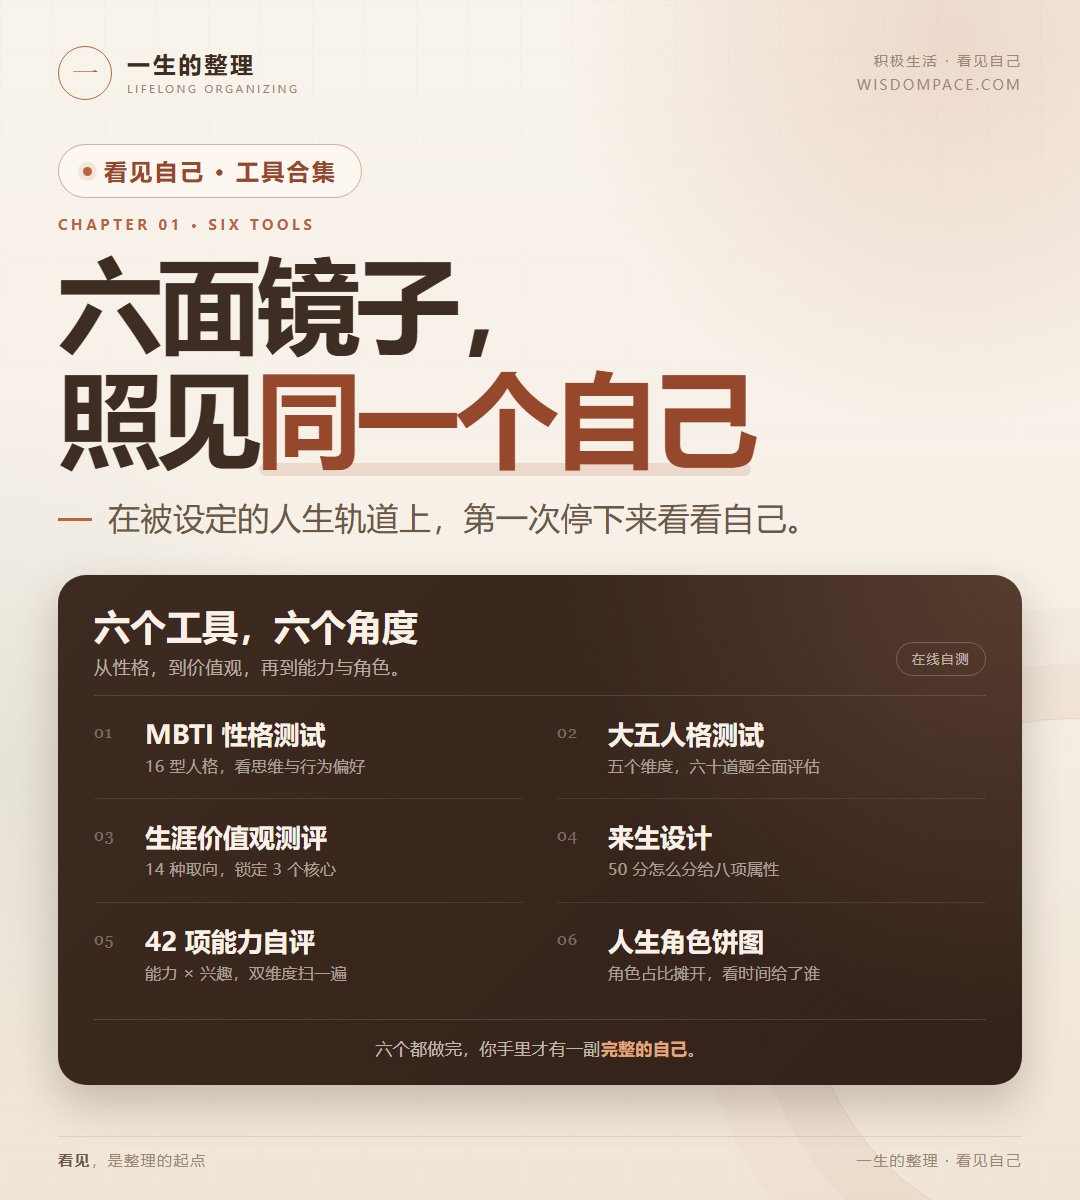
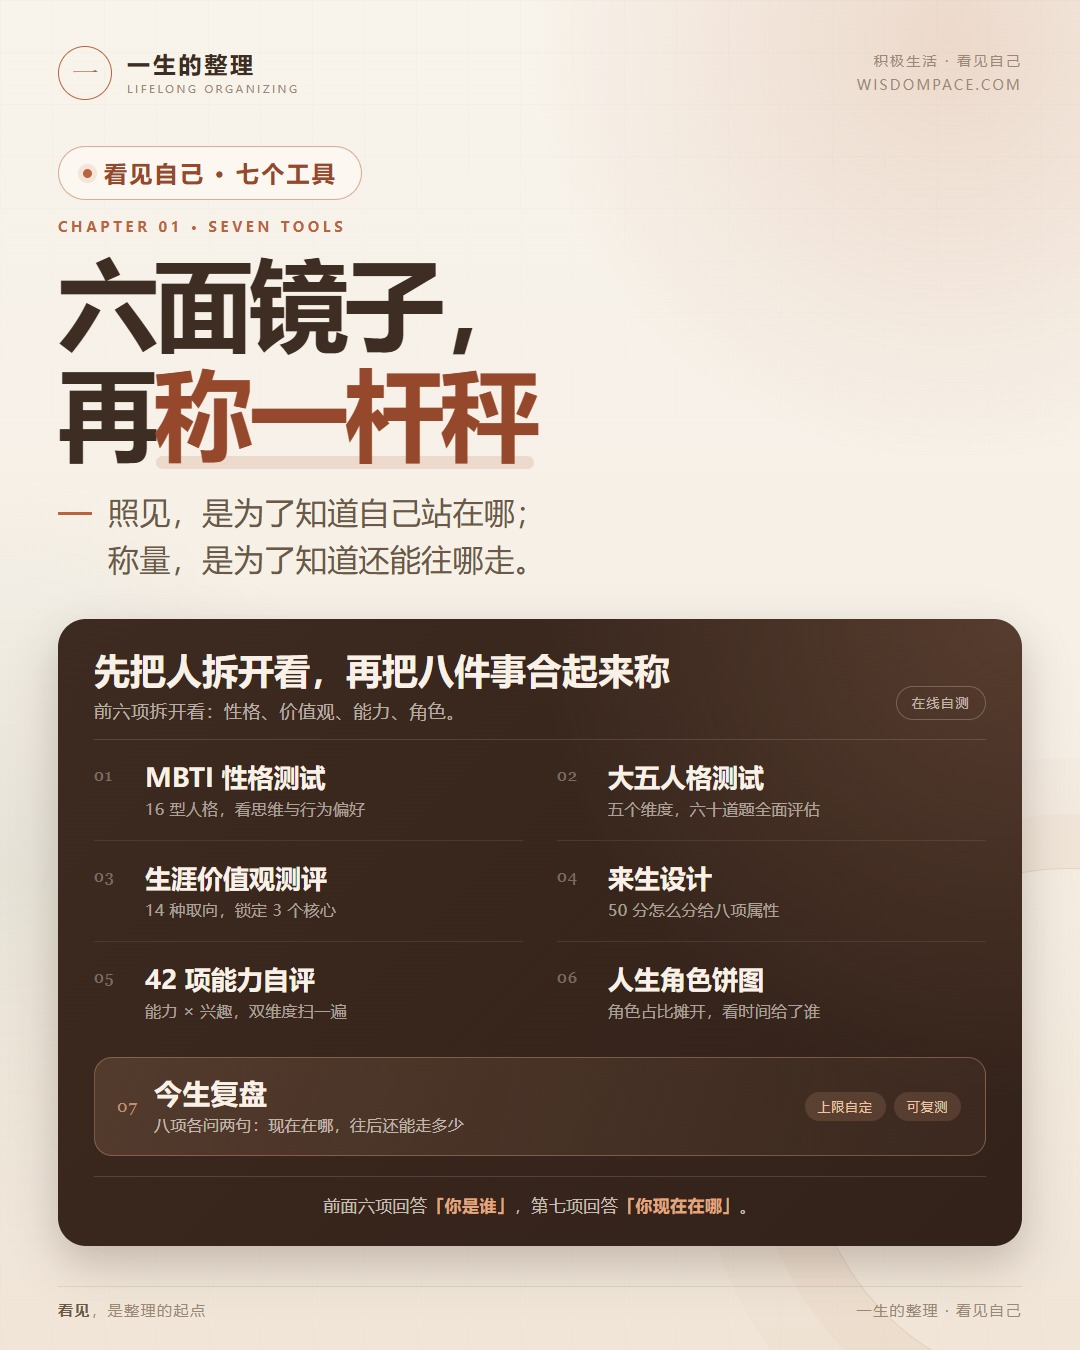
feat(posters): 第一章总封面重做，六拆一合两层结构
- 工具从 6 个增至 7 个（新增「今生复盘」），原「六面镜子」并列结构已失真
- 主标题改「六面镜子，再称一杆秤」：前六项拆开看，第七项合起来称
- 尺寸 1080x1200 → 1080x1350，给第七项留独立强调条的空间
- 第七项单列成条（跨两列 + 描边框 + 上限自定/可复测 两个 chip），与前六项区分
- 卡片头改「先把人拆开看，再把八件事合起来称」，脚注点明两层各自回答的问题

diff --git a/posters/chapter1-cover.html b/posters/chapter1-cover.html
@@ -3,7 +3,7 @@
 <head>
   <meta charset="UTF-8" />
   <meta name="viewport" content="width=1080, initial-scale=1.0" />
-  <title>看见自己 · 工具合集封面</title>
+  <title>看见自己 · 七工具封面</title>
   <style>
     * { box-sizing: border-box; margin: 0; padding: 0; }
     :root {
@@ -17,7 +17,7 @@
     }
     html, body {
       width: 1080px;
-      height: 1200px;
+      height: 1350px;
       overflow: hidden;
       background: var(--paper);
     }
@@ -29,7 +29,7 @@
     .poster {
       position: relative;
       width: 1080px;
-      height: 1200px;
+      height: 1350px;
       padding: 46px 58px 30px;
       overflow: hidden;
       background:
@@ -108,7 +108,7 @@
     .hero {
       position: relative;
       z-index: 2;
-      padding-top: 44px;
+      padding-top: 46px;
     }
     .tool-chip {
       display: inline-flex;
@@ -139,7 +139,7 @@
     }
     h1 {
       margin-top: 12px;
-      font-size: 104px;
+      font-size: 100px;
       font-weight: 800;
       line-height: 1.1;
       letter-spacing: -0.045em;
@@ -163,11 +163,11 @@
       display: flex;
       align-items: flex-start;
       gap: 16px;
-      margin-top: 20px;
+      margin-top: 22px;
       color: var(--ink-soft);
-      font-size: 32px;
+      font-size: 31px;
       font-weight: 500;
-      line-height: 1.45;
+      line-height: 1.5;
       letter-spacing: 0.01em;
     }
     .slogan::before {
@@ -175,16 +175,17 @@
       flex: 0 0 auto;
       width: 34px;
       height: 3px;
-      margin-top: 23px;
+      margin-top: 22px;
       background: var(--accent);
     }
+    .slogan em { font-style: normal; color: var(--accent-deep); font-weight: 700; }
 
-    /* ── 六工具深色卡 ── */
+    /* ── 工具深色卡 ── */
     .stage-card {
       position: relative;
       z-index: 2;
-      margin-top: 34px;
-      padding: 28px 36px 24px;
+      margin-top: 36px;
+      padding: 28px 36px 28px;
       border-radius: 28px;
       color: #f9f1e7;
       background:
@@ -226,10 +227,11 @@
       display: grid;
       grid-template-columns: 40px 1fr;
       gap: 11px;
-      padding: 22px 0 20px;
+      padding: 21px 0 19px;
       border-bottom: 1px solid rgba(249, 241, 231, 0.09);
     }
-    .stage:nth-last-child(-n+2) { border-bottom: 0; }
+    .stage:nth-child(5),
+    .stage:nth-child(6) { border-bottom: 0; }
     .stage-index {
       padding-top: 5px;
       color: rgba(249, 241, 231, 0.34);
@@ -248,8 +250,49 @@
       line-height: 1.45;
       letter-spacing: 0.02em;
     }
-    .stage-foot {
+
+    /* ── 第七项：合起来称 ── */
+    .stage-wide {
+      grid-column: 1 / -1;
+      display: flex;
+      align-items: center;
+      gap: 16px;
       margin-top: 14px;
+      padding: 18px 24px 18px 22px;
+      border: 1px solid rgba(224, 168, 130, 0.36);
+      border-radius: 18px;
+      background: linear-gradient(100deg, rgba(224, 168, 130, 0.15), rgba(224, 168, 130, 0.045));
+    }
+    .stage-wide .stage-index {
+      flex: 0 0 auto;
+      padding-top: 0;
+      color: rgba(224, 168, 130, 0.78);
+      font-size: 17px;
+    }
+    .stage-wide-body { flex: 1 1 auto; min-width: 0; }
+    .stage-wide .stage-title { font-size: 28px; letter-spacing: 0.01em; }
+    .stage-wide .stage-desc {
+      margin-top: 3px;
+      color: rgba(249, 241, 231, 0.68);
+      font-size: 16px;
+    }
+    .wide-chips {
+      flex: 0 0 auto;
+      display: flex;
+      gap: 8px;
+    }
+    .wide-chips span {
+      padding: 7px 13px 6px;
+      border-radius: 999px;
+      background: rgba(224, 168, 130, 0.16);
+      color: #efc4a6;
+      font-size: 13px;
+      letter-spacing: 0.06em;
+      white-space: nowrap;
+    }
+
+    .stage-foot {
+      margin-top: 20px;
       padding-top: 16px;
       border-top: 1px solid rgba(249, 241, 231, 0.14);
       color: rgba(249, 241, 231, 0.74);
@@ -295,17 +338,17 @@
     </header>
 
     <section class="hero">
-      <div class="tool-chip"><span class="dot"></span>看见自己 · 工具合集</div>
-      <p class="kicker">CHAPTER 01 · SIX TOOLS</p>
-      <h1>六面镜子，<br />照见<span class="accent">同一个自己</span></h1>
-      <p class="slogan">在被设定的人生轨道上，第一次停下来看看自己。</p>
+      <div class="tool-chip"><span class="dot"></span>看见自己 · 七个工具</div>
+      <p class="kicker">CHAPTER 01 · SEVEN TOOLS</p>
+      <h1>六面镜子，<br />再<span class="accent">称一杆秤</span></h1>
+      <p class="slogan">照见，是为了知道自己站在哪；<br />称量，是为了知道还能往哪走。</p>
     </section>
 
     <section class="stage-card">
       <div class="stage-head">
         <div>
-          <h2>六个工具，六个角度</h2>
-          <p>从性格，到价值观，再到能力与角色。</p>
+          <h2>先把人拆开看，再把八件事合起来称</h2>
+          <p>前六项拆开看：性格、价值观、能力、角色。</p>
         </div>
         <span class="stage-tag">在线自测</span>
       </div>
@@ -352,8 +395,19 @@
             <div class="stage-desc">角色占比摊开，看时间给了谁</div>
           </div>
         </div>
+        <div class="stage-wide">
+          <div class="stage-index">07</div>
+          <div class="stage-wide-body">
+            <div class="stage-title">今生复盘</div>
+            <div class="stage-desc">八项各问两句：现在在哪，往后还能走多少</div>
+          </div>
+          <div class="wide-chips">
+            <span>上限自定</span>
+            <span>可复测</span>
+          </div>
+        </div>
       </div>
-      <p class="stage-foot">六个都做完，你手里才有一副<strong>完整的自己</strong>。</p>
+      <p class="stage-foot">前面六项回答<strong>「你是谁」</strong>，第七项回答<strong>「你现在在哪」</strong>。</p>
     </section>
 
     <footer class="footer">
